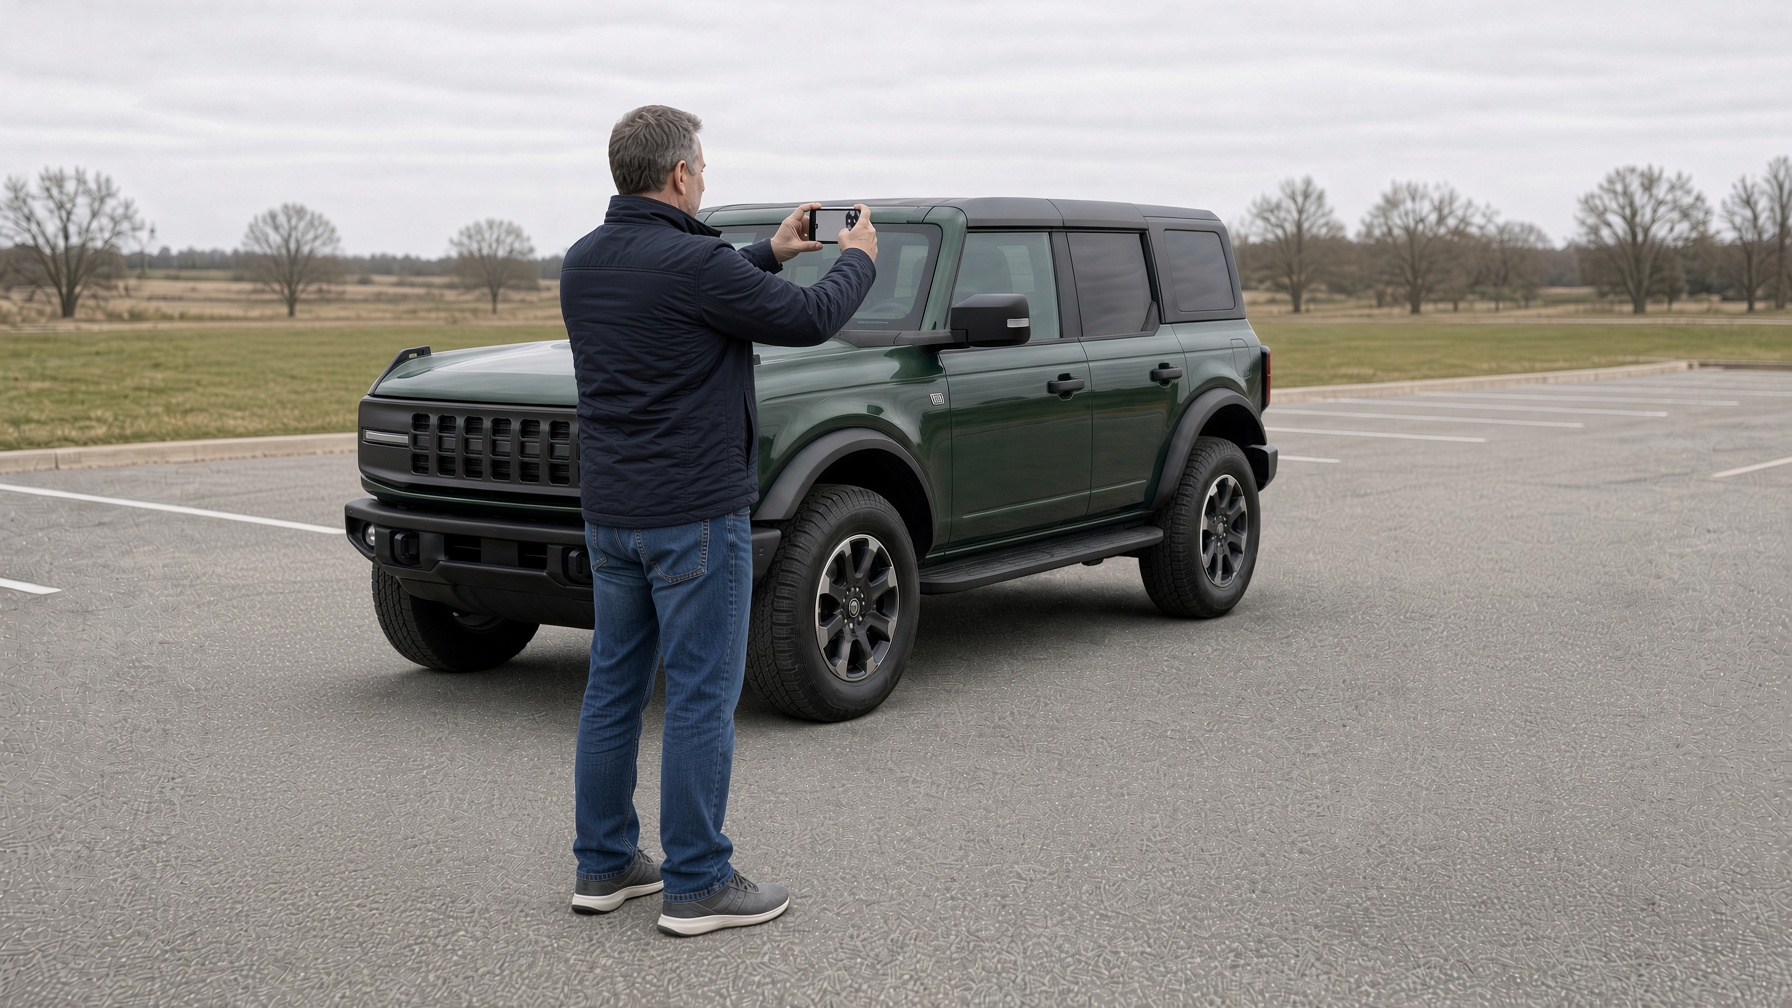
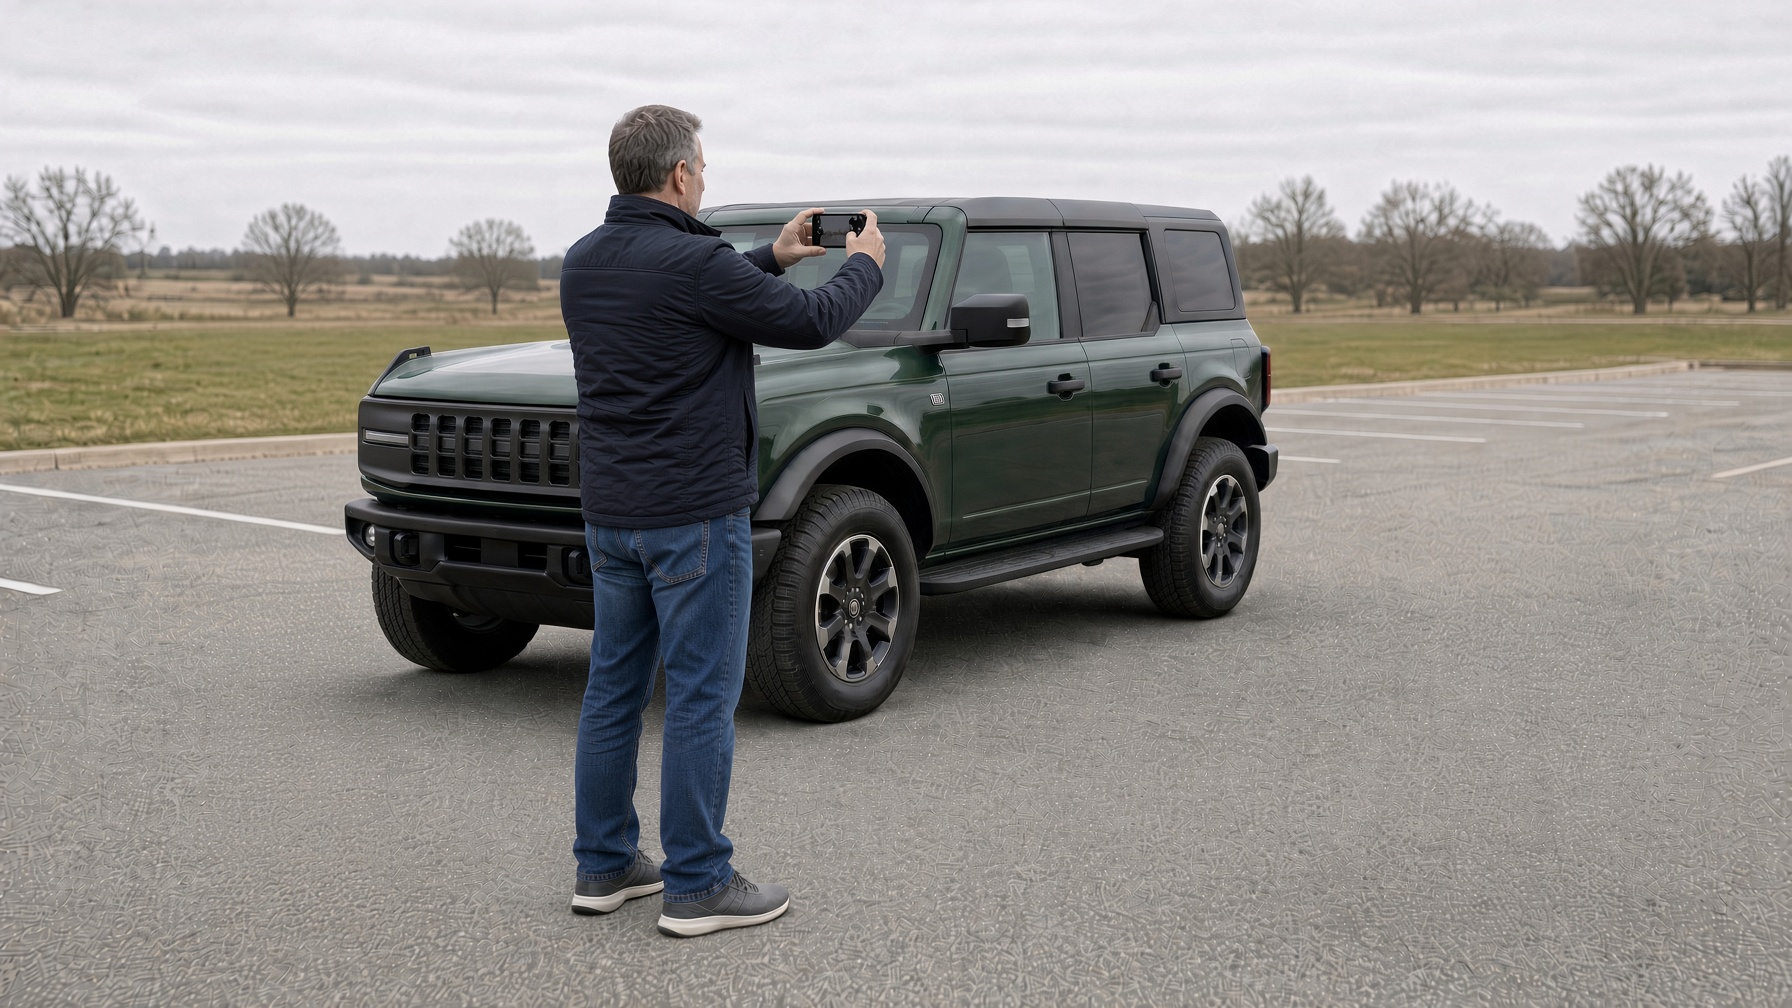
Pose: phone aimed at the Bronco

diff --git a/404.html b/404.html
@@ -579,7 +579,7 @@ button.doc-sq, a.doc-sq { width:100%; appearance:none; -webkit-appearance:none; 
   <div class="pad">
     <button class="unit link" type="button" id="unitLine">Add year / make / VIN</button>
     <button class="start-pose" type="button" id="btnStart">
-      <img src="pose-qfront.jpg?v=14" alt="Stand about six feet off the front corner, phone out, for the 3/4 front photo">
+      <img src="pose-qfront.jpg?v=15" alt="Stand about six feet off the front corner, phone out, for the 3/4 front photo">
       <em>Stand here · about 6 feet off the front corner · tap to shoot</em>
     </button>
     <div class="block">Photos</div>

diff --git a/index.html b/index.html
@@ -579,7 +579,7 @@ button.doc-sq, a.doc-sq { width:100%; appearance:none; -webkit-appearance:none; 
   <div class="pad">
     <button class="unit link" type="button" id="unitLine">Add year / make / VIN</button>
     <button class="start-pose" type="button" id="btnStart">
-      <img src="pose-qfront.jpg?v=14" alt="Stand about six feet off the front corner, phone out, for the 3/4 front photo">
+      <img src="pose-qfront.jpg?v=15" alt="Stand about six feet off the front corner, phone out, for the 3/4 front photo">
       <em>Stand here · about 6 feet off the front corner · tap to shoot</em>
     </button>
     <div class="block">Photos</div>
